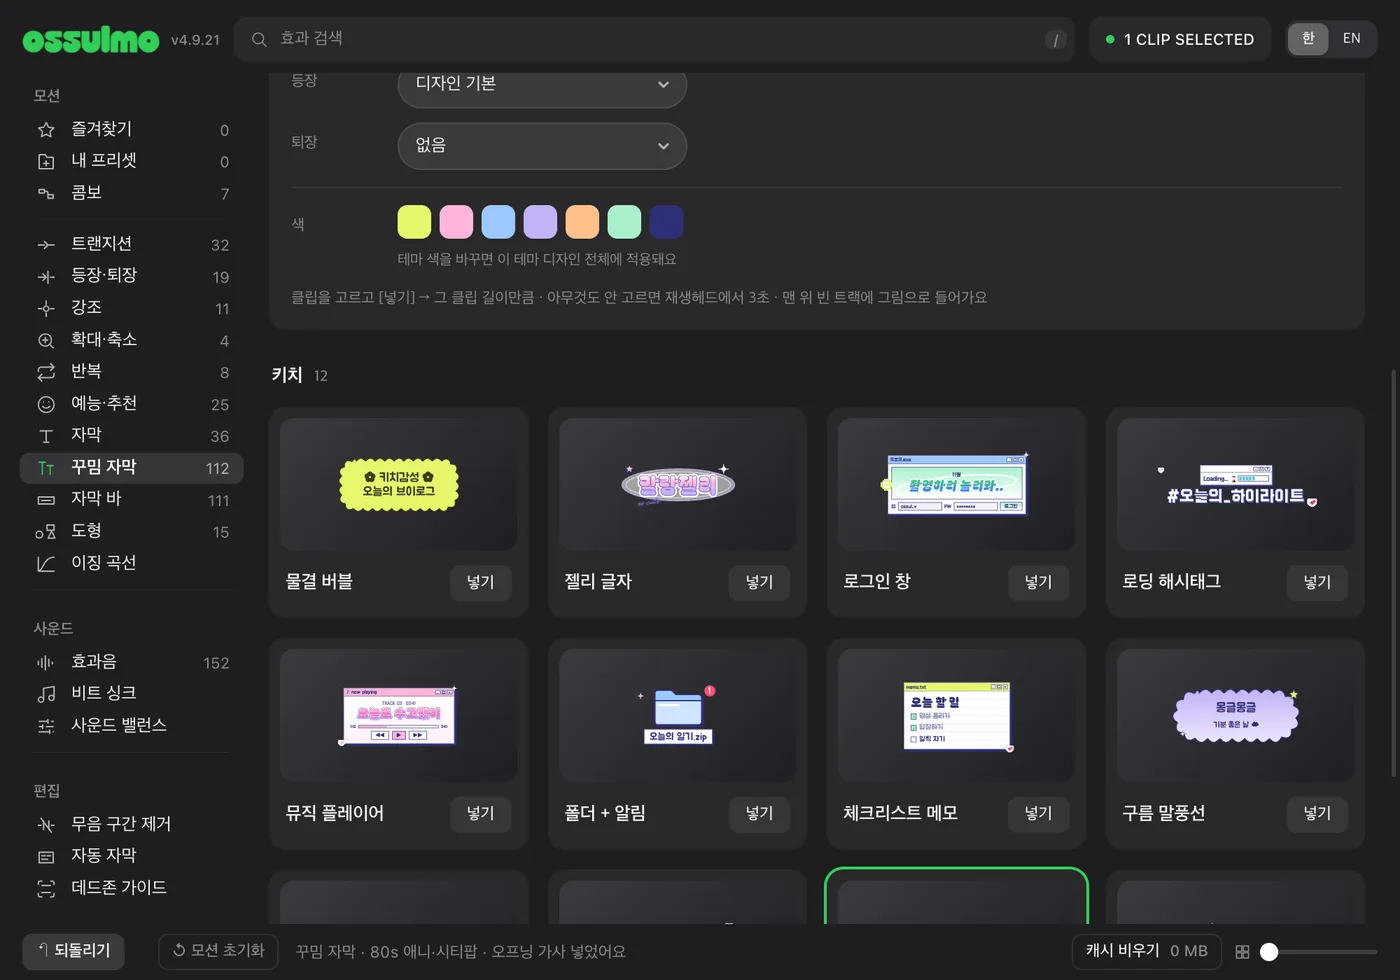
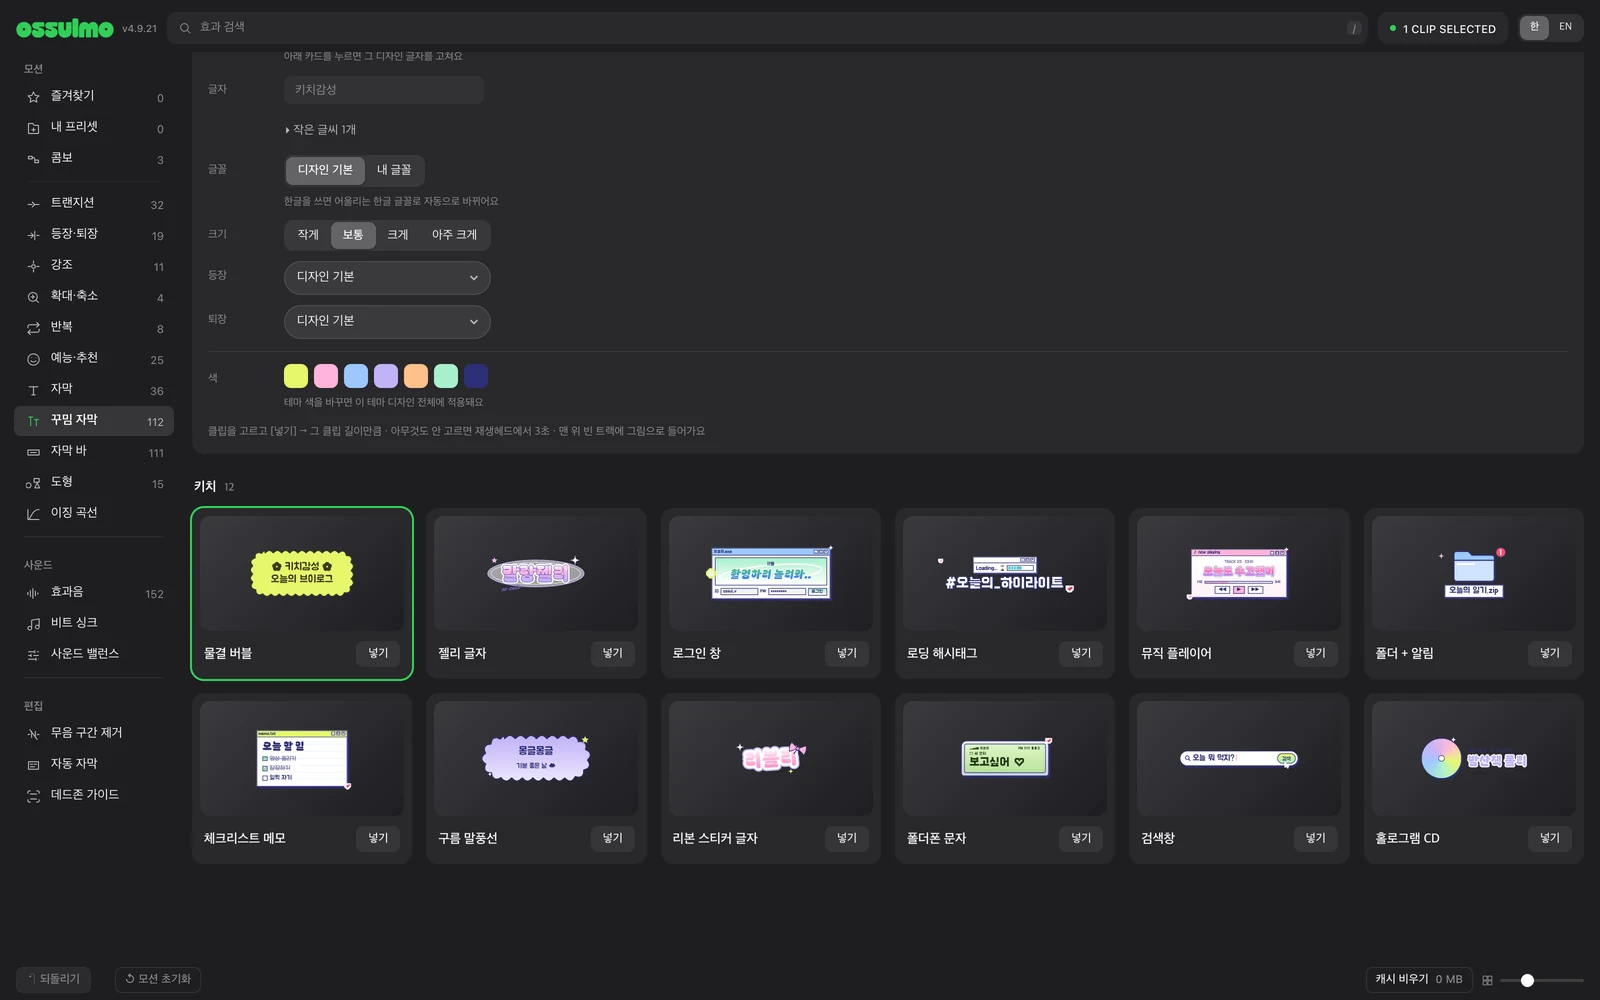
Add files via upload

diff --git a/site_stats.js b/site_stats.js
@@ -1,6 +1,6 @@
-/* 오쓸모션 홈페이지 숫자 — 플러그인 업데이트 때 이 값만 바꾸면 사이트 전체에 반영돼요 (v4.9.19) */
+/* 오쓸모션 홈페이지 숫자 — 플러그인 업데이트 때 이 값만 바꾸면 사이트 전체에 반영돼요 (v4.9.21 · 프리셋 520+ = 모션·자막·효과음 전부, 실제 525) */
 window.OS_STATS = {
-  "total": 397,
+  "total": 520,
   "transition": 32,
   "inout": 19,
   "emphasis": 11,
